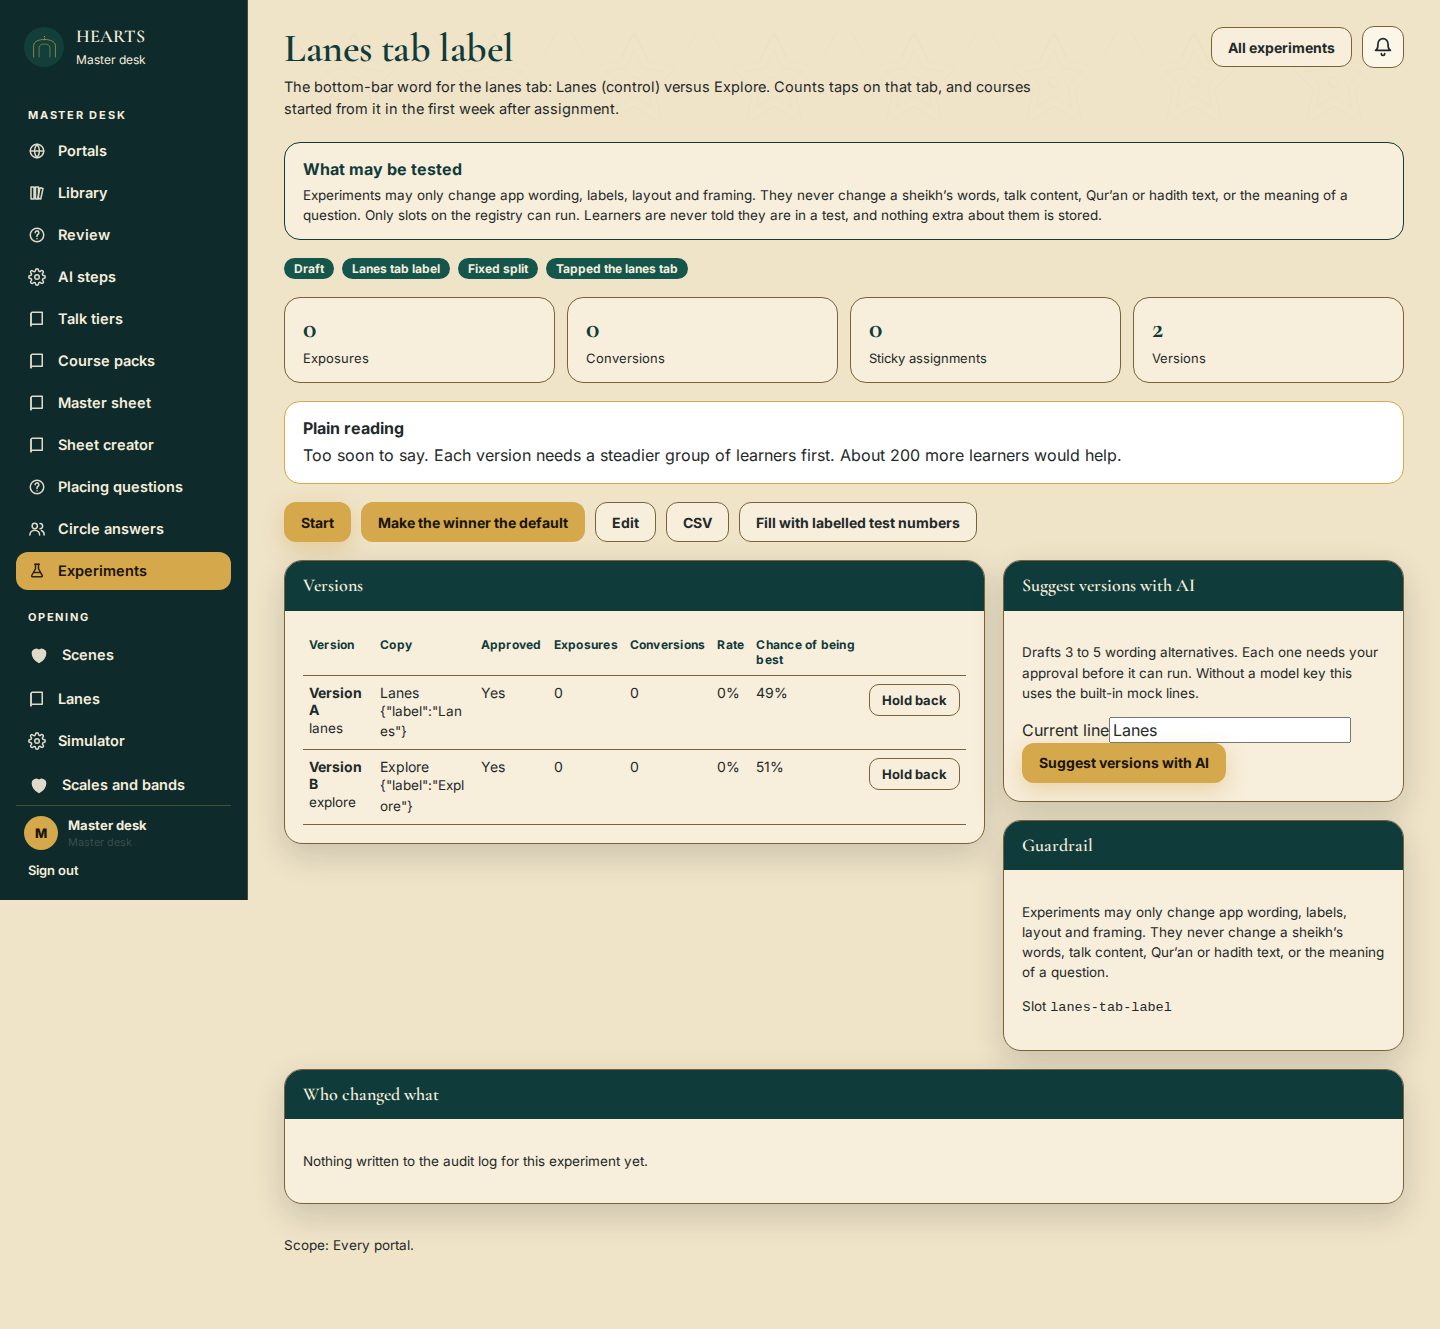
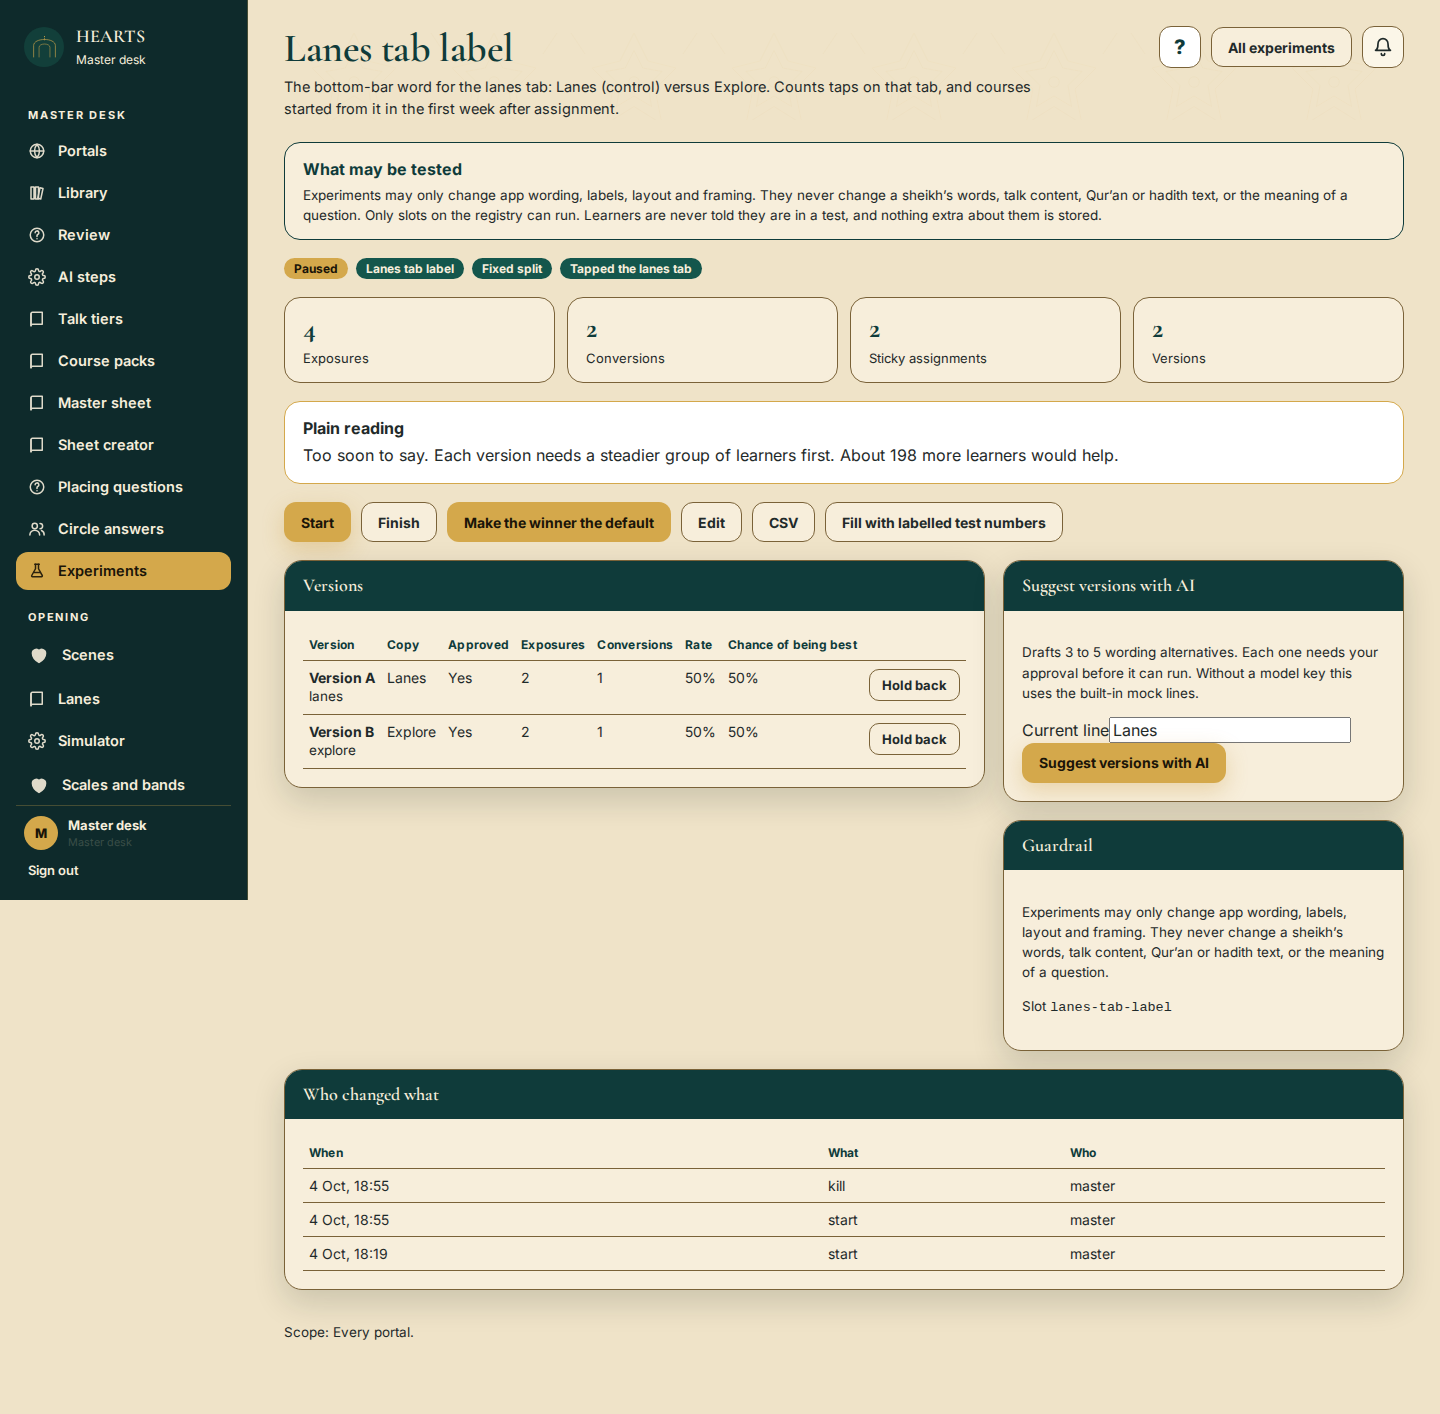
Replace Copy-column screenshots that still showed raw JSON
experiments-results.png and lanes-tab-experiment-draft.png now show
plain words only. Also refresh the refused-form shot and add the kill
line on the Lanes change history.

Changed region(s): [[0.0, 0.0, 1.0, 0.9564], [0.7812, 0.0, 0.9688, 0.0617]]

diff --git a/README.md b/README.md
@@ -11,4 +11,4 @@ Recorded on a local HEARTS dev server. Nothing here was run against a live deplo
 
 ## Screenshots
 
-See `screenshots/`.
+See `screenshots/`. `experiments-results.png` and `lanes-tab-experiment-draft.png` now show the Versions Copy column as plain words (no raw JSON). `talk-content-refused.png` keeps the typed values on the form. `lanes-kill-history.png` shows a kill line in Who changed what.
